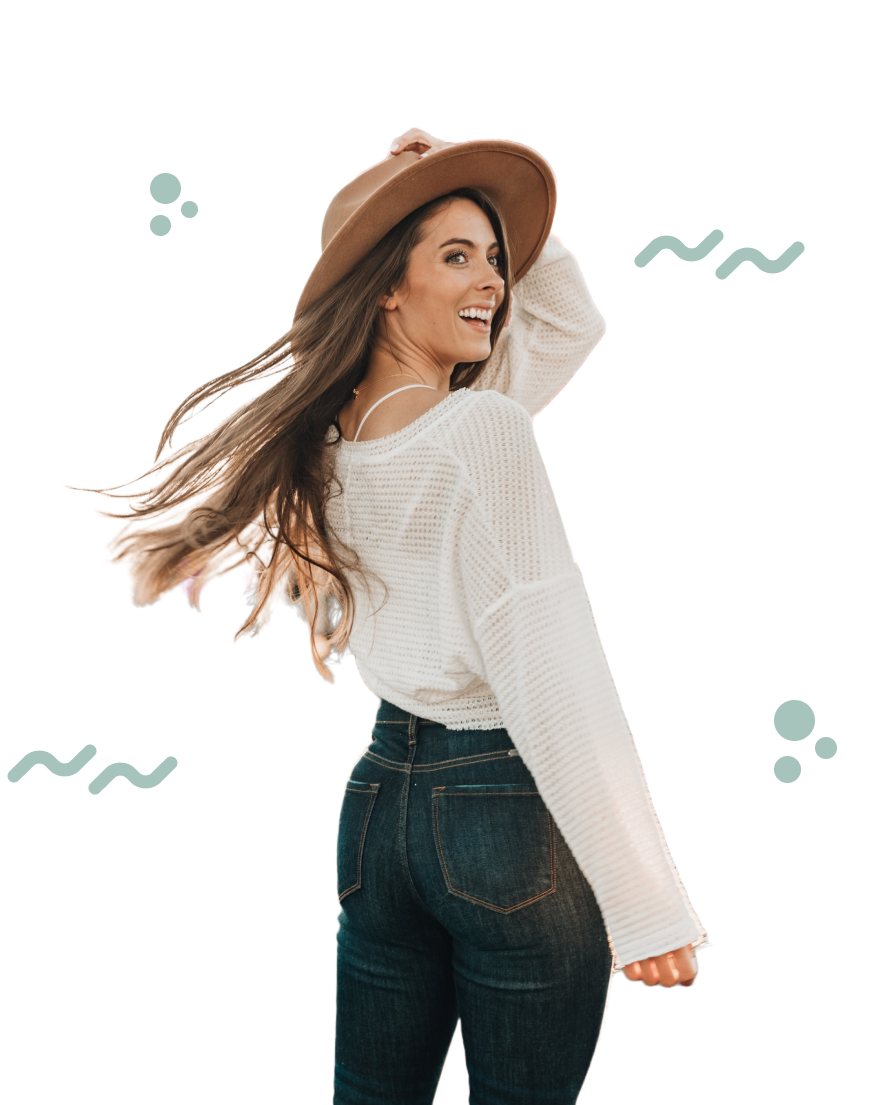
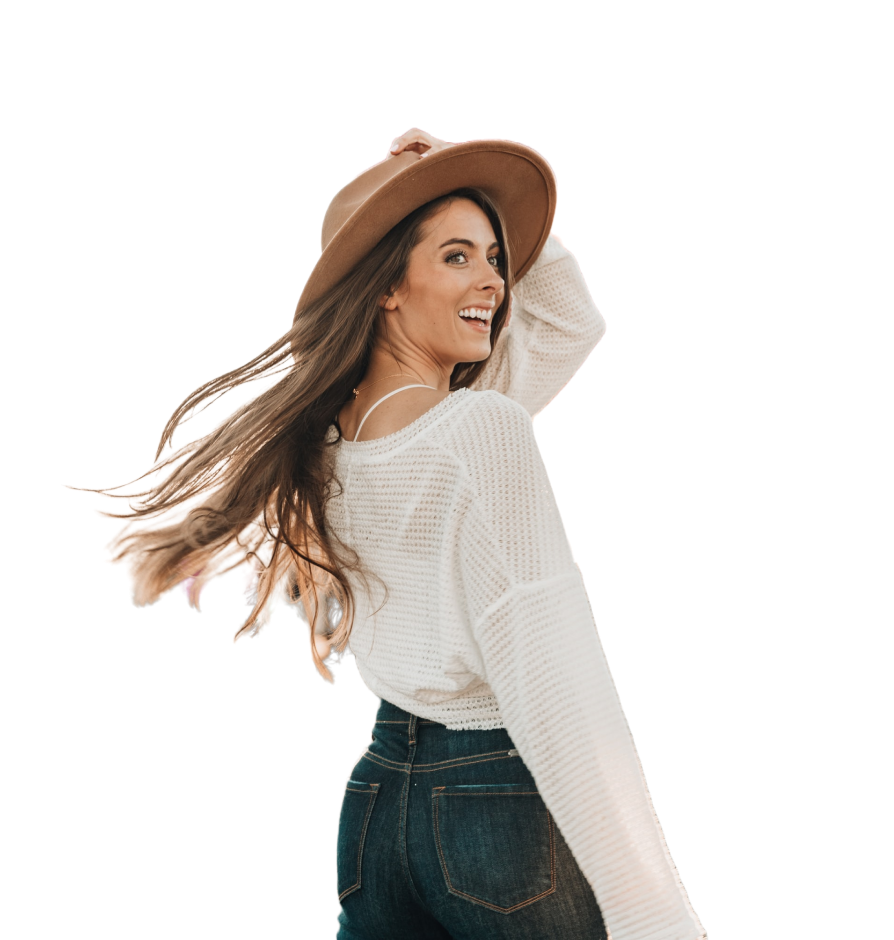
style: header refactoring an image
Теперь изображение это отдельная картинка, а векторы сзади это псевдо элемент

diff --git a/desktop.blocks/header/header.css b/desktop.blocks/header/header.css
@@ -1,5 +1,5 @@
 .header {
-    z-index: 1;
+    z-index: 1000;
     overflow: hidden;
     position: relative;
     min-height: 940px;
@@ -41,13 +41,29 @@
     z-index: -1;
 }
 
+.header__img::after {
+    content: "";
+
+    position: absolute;
+    top: 21px;
+    right: -90px;
+
+    width: 830px;
+    height: 622px;
+
+    background-image: url("../../img/header/header_elements.svg");
+}
+
 .header__img img {
     position: absolute;
     top: -160px;
     right: -150px;
+
     max-width: unset;
-    width: 898px;
-    height: 1123px;
+    width: 894px;
+    height: 949px;
+
+    pointer-events: none;
 }
 
 .header__badge {
